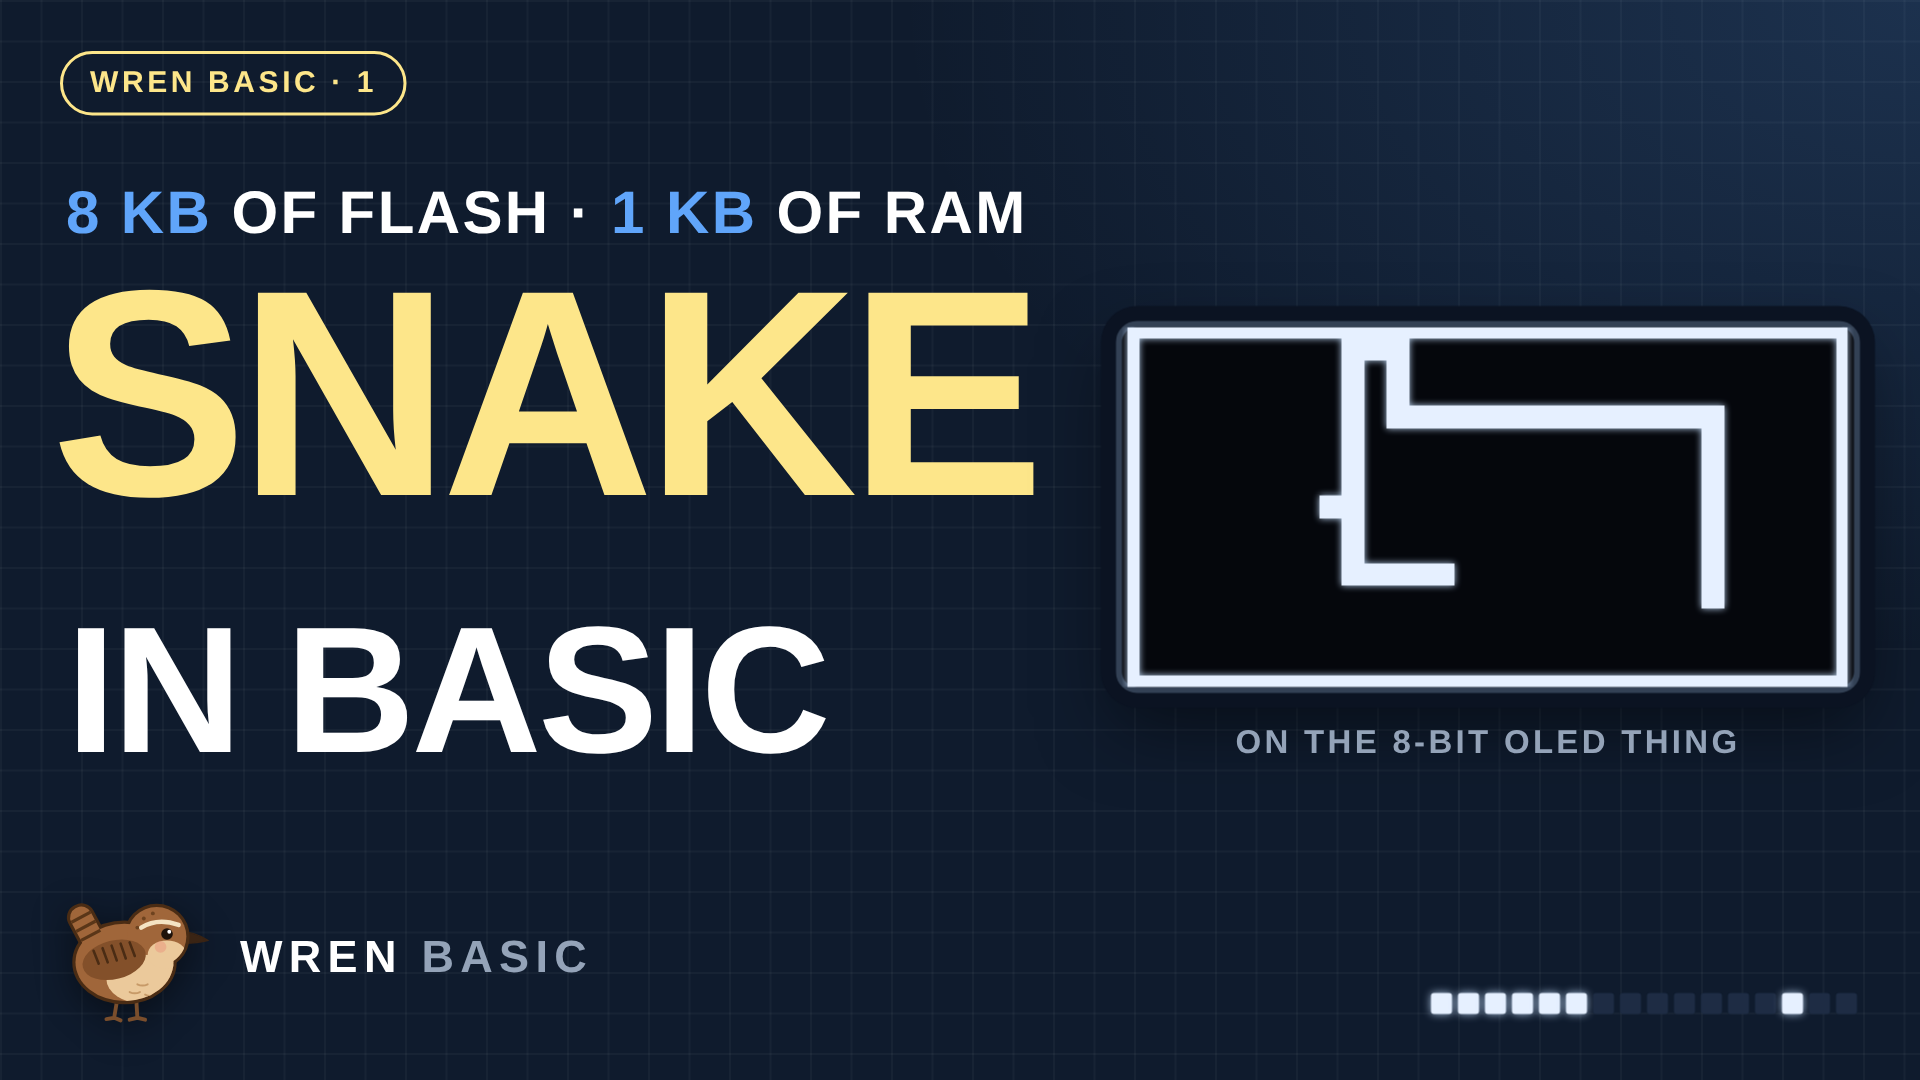
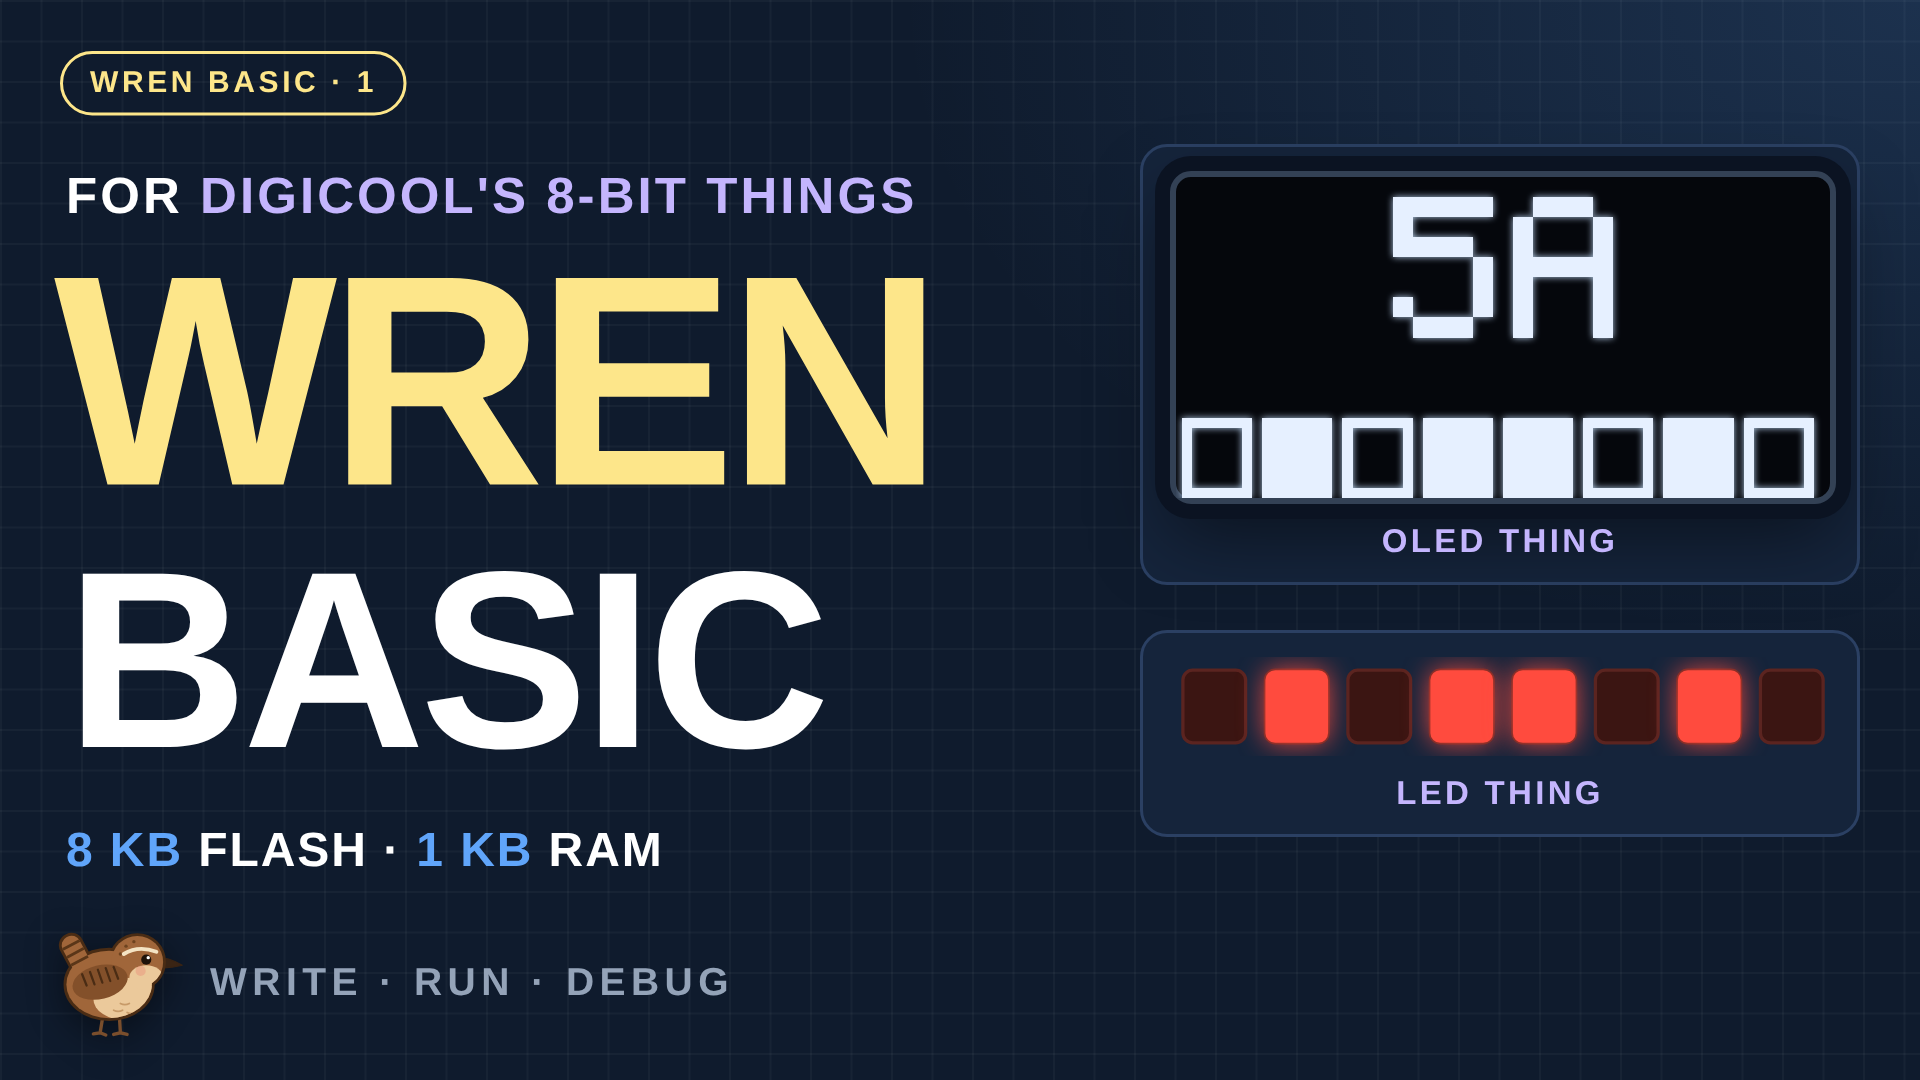
Videos: the overview's thumbnail is about Wren BASIC and the two Things
Claude-Session: https://claude.ai/code/session_01PM169opcHumrd8MpGp9RPP

diff --git a/docs/Videos/Infographics/Wren_01/Wren_01_00_Thumbnail.html b/docs/Videos/Infographics/Wren_01/Wren_01_00_Thumbnail.html
@@ -14,10 +14,11 @@
     5. The result is 1920 x 1080. Save it over Wren_01_00_Thumbnail.png.
 
   Sources:
-    - The OLED screen: the emulator's panel, Snake.bas from programs/OledThing as it is,
-      run on Wren's kernel in Wren.Emu until the snake was 42 cells long, one SVG rect per run
-      of lit pixels.
+    - The OLED screen: the emulator's panel, programs/OledThing/OledThing.bas with the inputs at
+      $5A and the mode pins high, one SVG rect per run of lit pixels.
+    - The LEDs: the emulator, programs/LedThing/LedThing.bas in mode 7 with the inputs at $5A.
     - "8 KB of flash, 1 KB of RAM": the Things' chip, docs/OledThing.md (Parts).
+    - The boards are drawn, not photographed: no Digicool artwork is used.
     - The mark: art/wren.svg, the wren.
 
   Fonts: "Liberation Sans" and "DejaVu Sans Mono" (Arial and Consolas are close).
@@ -120,28 +121,29 @@
   .thumb { position: absolute; left: 0; top: 0; width: 1280px; height: 720px; overflow: hidden; transform-origin: top left; }
   @media (min-width: 1900px) { .thumb { transform: scale(1.5); } body { background-size: auto, 40px 40px, 40px 40px; } }
   .thumb .chip { left: 40px; top: 34px; font-size: 20px; padding: 8px 18px; }
-  .over { position: absolute; left: 44px; top: 120px; font-size: 40px; font-weight: 700; color: #ffffff; letter-spacing: 0.04em; }
-  .over b { color: var(--basic); }
-  .head { position: absolute; left: 34px; top: 170px; font-size: 196px; line-height: 0.95; font-weight: 700; color: var(--gold); letter-spacing: -0.03em; }
-  .head2 { position: absolute; left: 44px; top: 400px; font-size: 120px; line-height: 1; font-weight: 700; color: #ffffff; letter-spacing: -0.02em; }
-  .screen { position: absolute; left: 744px; top: 214px; width: 496px; height: 248px; padding: 0; }
-  .screen-cap { position: absolute; left: 744px; top: 482px; width: 496px; text-align: center; font-size: 22px; color: var(--muted); letter-spacing: 0.1em; font-weight: 700; }
-  .brand { position: absolute; left: 34px; bottom: 26px; display: flex; align-items: center; gap: 16px; font-size: 30px; font-weight: 700; letter-spacing: 0.14em; color: var(--muted); }
-  .brand .bird { width: 110px; height: 110px; }
-  .brand b { color: #ffffff; }
-  .pixels { position: absolute; right: 42px; bottom: 44px; display: grid; grid-template-columns: repeat(16, 14px); gap: 4px; }
-  .pixels i { width: 14px; height: 14px; background: #1e2c44; border-radius: 2px; }
-  .pixels i.on { background: var(--pixel); box-shadow: 0 0 6px rgba(200, 225, 255, 0.8); }
+  .over { position: absolute; left: 44px; top: 112px; font-size: 34px; font-weight: 700; color: #ffffff; letter-spacing: 0.06em; }
+  .over b { color: var(--thing); }
+  .head { position: absolute; left: 36px; top: 160px; font-size: 200px; line-height: 0.95; font-weight: 700; color: var(--gold); letter-spacing: -0.03em; }
+  .head2 { position: absolute; left: 44px; top: 356px; font-size: 168px; line-height: 1; font-weight: 700; color: #ffffff; letter-spacing: -0.02em; }
+  .board { position: absolute; left: 760px; width: 480px; background: var(--panel); border: 2px solid var(--line); border-radius: 18px; padding: 16px 18px 14px; }
+  .board .cap { font-size: 22px; font-weight: 700; letter-spacing: 0.1em; color: var(--thing); margin-top: 12px; text-align: center; }
+  .b1 { top: 96px; } .b1 .oled { width: 444px; height: 222px; }
+  .b2 { top: 420px; } .b2 .leds { display: block; width: 444px; height: 66px; }
+  .ram { position: absolute; left: 44px; top: 548px; font-size: 32px; font-weight: 700; color: #fff; letter-spacing: 0.04em; }
+  .ram b { color: var(--basic); }
+  .brand { position: absolute; left: 30px; bottom: 18px; display: flex; align-items: center; gap: 14px; font-size: 26px; font-weight: 700; letter-spacing: 0.14em; color: var(--muted); }
+  .brand .bird { width: 96px; height: 96px; }
 </style>
 </head>
 <body>
 <div class="thumb">
   <div class="chip fade">WREN BASIC · 1</div>
-  <div class="over rise d1"><b>8 KB</b> OF FLASH · <b>1 KB</b> OF RAM</div>
-  <div class="head rise d2">SNAKE</div>
-  <div class="head2 rise d3">IN BASIC</div>
-  <div class="oled screen pop d4"><!--OLED:snake_len42--><svg class="px" viewBox="0 0 64 32" shape-rendering="crispEdges"><g><rect x="0" y="0" width="64" height="1"/><rect x="0" y="1" width="1" height="1"/><rect x="19" y="1" width="6" height="1"/><rect x="63" y="1" width="1" height="1"/><rect x="0" y="2" width="1" height="1"/><rect x="19" y="2" width="6" height="1"/><rect x="63" y="2" width="1" height="1"/><rect x="0" y="3" width="1" height="1"/><rect x="19" y="3" width="2" height="1"/><rect x="23" y="3" width="2" height="1"/><rect x="63" y="3" width="1" height="1"/><rect x="0" y="4" width="1" height="1"/><rect x="19" y="4" width="2" height="1"/><rect x="23" y="4" width="2" height="1"/><rect x="63" y="4" width="1" height="1"/><rect x="0" y="5" width="1" height="1"/><rect x="19" y="5" width="2" height="1"/><rect x="23" y="5" width="2" height="1"/><rect x="63" y="5" width="1" height="1"/><rect x="0" y="6" width="1" height="1"/><rect x="19" y="6" width="2" height="1"/><rect x="23" y="6" width="2" height="1"/><rect x="63" y="6" width="1" height="1"/><rect x="0" y="7" width="1" height="1"/><rect x="19" y="7" width="2" height="1"/><rect x="23" y="7" width="30" height="1"/><rect x="63" y="7" width="1" height="1"/><rect x="0" y="8" width="1" height="1"/><rect x="19" y="8" width="2" height="1"/><rect x="23" y="8" width="30" height="1"/><rect x="63" y="8" width="1" height="1"/><rect x="0" y="9" width="1" height="1"/><rect x="19" y="9" width="2" height="1"/><rect x="51" y="9" width="2" height="1"/><rect x="63" y="9" width="1" height="1"/><rect x="0" y="10" width="1" height="1"/><rect x="19" y="10" width="2" height="1"/><rect x="51" y="10" width="2" height="1"/><rect x="63" y="10" width="1" height="1"/><rect x="0" y="11" width="1" height="1"/><rect x="19" y="11" width="2" height="1"/><rect x="51" y="11" width="2" height="1"/><rect x="63" y="11" width="1" height="1"/><rect x="0" y="12" width="1" height="1"/><rect x="19" y="12" width="2" height="1"/><rect x="51" y="12" width="2" height="1"/><rect x="63" y="12" width="1" height="1"/><rect x="0" y="13" width="1" height="1"/><rect x="19" y="13" width="2" height="1"/><rect x="51" y="13" width="2" height="1"/><rect x="63" y="13" width="1" height="1"/><rect x="0" y="14" width="1" height="1"/><rect x="19" y="14" width="2" height="1"/><rect x="51" y="14" width="2" height="1"/><rect x="63" y="14" width="1" height="1"/><rect x="0" y="15" width="1" height="1"/><rect x="17" y="15" width="4" height="1"/><rect x="51" y="15" width="2" height="1"/><rect x="63" y="15" width="1" height="1"/><rect x="0" y="16" width="1" height="1"/><rect x="17" y="16" width="4" height="1"/><rect x="51" y="16" width="2" height="1"/><rect x="63" y="16" width="1" height="1"/><rect x="0" y="17" width="1" height="1"/><rect x="19" y="17" width="2" height="1"/><rect x="51" y="17" width="2" height="1"/><rect x="63" y="17" width="1" height="1"/><rect x="0" y="18" width="1" height="1"/><rect x="19" y="18" width="2" height="1"/><rect x="51" y="18" width="2" height="1"/><rect x="63" y="18" width="1" height="1"/><rect x="0" y="19" width="1" height="1"/><rect x="19" y="19" width="2" height="1"/><rect x="51" y="19" width="2" height="1"/><rect x="63" y="19" width="1" height="1"/><rect x="0" y="20" width="1" height="1"/><rect x="19" y="20" width="2" height="1"/><rect x="51" y="20" width="2" height="1"/><rect x="63" y="20" width="1" height="1"/><rect x="0" y="21" width="1" height="1"/><rect x="19" y="21" width="10" height="1"/><rect x="51" y="21" width="2" height="1"/><rect x="63" y="21" width="1" height="1"/><rect x="0" y="22" width="1" height="1"/><rect x="19" y="22" width="10" height="1"/><rect x="51" y="22" width="2" height="1"/><rect x="63" y="22" width="1" height="1"/><rect x="0" y="23" width="1" height="1"/><rect x="51" y="23" width="2" height="1"/><rect x="63" y="23" width="1" height="1"/><rect x="0" y="24" width="1" height="1"/><rect x="51" y="24" width="2" height="1"/><rect x="63" y="24" width="1" height="1"/><rect x="0" y="25" width="1" height="1"/><rect x="63" y="25" width="1" height="1"/><rect x="0" y="26" width="1" height="1"/><rect x="63" y="26" width="1" height="1"/><rect x="0" y="27" width="1" height="1"/><rect x="63" y="27" width="1" height="1"/><rect x="0" y="28" width="1" height="1"/><rect x="63" y="28" width="1" height="1"/><rect x="0" y="29" width="1" height="1"/><rect x="63" y="29" width="1" height="1"/><rect x="0" y="30" width="1" height="1"/><rect x="63" y="30" width="1" height="1"/><rect x="0" y="31" width="64" height="1"/></g><g></g></svg><!--/OLED--></div>
-  <div class="screen-cap fade d5">ON THE 8-BIT OLED THING</div>
+  <div class="over rise d1">FOR <b>DIGICOOL'S 8-BIT THINGS</b></div>
+  <div class="head rise d2">WREN</div>
+  <div class="head2 rise d3">BASIC</div>
+  <div class="ram rise d4"><b>8 KB</b> FLASH · <b>1 KB</b> RAM</div>
+  <div class="board b1 pop d4"><div class="oled"><!--OLED:oled_default--><svg class="px" viewBox="0 0 64 32" shape-rendering="crispEdges"><g><rect x="21" y="2" width="10" height="1"/><rect x="35" y="2" width="6" height="1"/><rect x="21" y="3" width="10" height="1"/><rect x="35" y="3" width="6" height="1"/><rect x="21" y="4" width="2" height="1"/><rect x="33" y="4" width="2" height="1"/><rect x="41" y="4" width="2" height="1"/><rect x="21" y="5" width="2" height="1"/><rect x="33" y="5" width="2" height="1"/><rect x="41" y="5" width="2" height="1"/><rect x="21" y="6" width="8" height="1"/><rect x="33" y="6" width="2" height="1"/><rect x="41" y="6" width="2" height="1"/><rect x="21" y="7" width="8" height="1"/><rect x="33" y="7" width="2" height="1"/><rect x="41" y="7" width="2" height="1"/><rect x="29" y="8" width="2" height="1"/><rect x="33" y="8" width="10" height="1"/><rect x="29" y="9" width="2" height="1"/><rect x="33" y="9" width="10" height="1"/><rect x="29" y="10" width="2" height="1"/><rect x="33" y="10" width="2" height="1"/><rect x="41" y="10" width="2" height="1"/><rect x="29" y="11" width="2" height="1"/><rect x="33" y="11" width="2" height="1"/><rect x="41" y="11" width="2" height="1"/><rect x="21" y="12" width="2" height="1"/><rect x="29" y="12" width="2" height="1"/><rect x="33" y="12" width="2" height="1"/><rect x="41" y="12" width="2" height="1"/><rect x="21" y="13" width="2" height="1"/><rect x="29" y="13" width="2" height="1"/><rect x="33" y="13" width="2" height="1"/><rect x="41" y="13" width="2" height="1"/><rect x="23" y="14" width="6" height="1"/><rect x="33" y="14" width="2" height="1"/><rect x="41" y="14" width="2" height="1"/><rect x="23" y="15" width="6" height="1"/><rect x="33" y="15" width="2" height="1"/><rect x="41" y="15" width="2" height="1"/><rect x="0" y="24" width="7" height="1"/><rect x="8" y="24" width="7" height="1"/><rect x="16" y="24" width="7" height="1"/><rect x="24" y="24" width="7" height="1"/><rect x="32" y="24" width="7" height="1"/><rect x="40" y="24" width="7" height="1"/><rect x="48" y="24" width="7" height="1"/><rect x="56" y="24" width="7" height="1"/><rect x="0" y="25" width="1" height="1"/><rect x="6" y="25" width="1" height="1"/><rect x="8" y="25" width="7" height="1"/><rect x="16" y="25" width="1" height="1"/><rect x="22" y="25" width="1" height="1"/><rect x="24" y="25" width="7" height="1"/><rect x="32" y="25" width="7" height="1"/><rect x="40" y="25" width="1" height="1"/><rect x="46" y="25" width="1" height="1"/><rect x="48" y="25" width="7" height="1"/><rect x="56" y="25" width="1" height="1"/><rect x="62" y="25" width="1" height="1"/><rect x="0" y="26" width="1" height="1"/><rect x="6" y="26" width="1" height="1"/><rect x="8" y="26" width="7" height="1"/><rect x="16" y="26" width="1" height="1"/><rect x="22" y="26" width="1" height="1"/><rect x="24" y="26" width="7" height="1"/><rect x="32" y="26" width="7" height="1"/><rect x="40" y="26" width="1" height="1"/><rect x="46" y="26" width="1" height="1"/><rect x="48" y="26" width="7" height="1"/><rect x="56" y="26" width="1" height="1"/><rect x="62" y="26" width="1" height="1"/><rect x="0" y="27" width="1" height="1"/><rect x="6" y="27" width="1" height="1"/><rect x="8" y="27" width="7" height="1"/><rect x="16" y="27" width="1" height="1"/><rect x="22" y="27" width="1" height="1"/><rect x="24" y="27" width="7" height="1"/><rect x="32" y="27" width="7" height="1"/><rect x="40" y="27" width="1" height="1"/><rect x="46" y="27" width="1" height="1"/><rect x="48" y="27" width="7" height="1"/><rect x="56" y="27" width="1" height="1"/><rect x="62" y="27" width="1" height="1"/><rect x="0" y="28" width="1" height="1"/><rect x="6" y="28" width="1" height="1"/><rect x="8" y="28" width="7" height="1"/><rect x="16" y="28" width="1" height="1"/><rect x="22" y="28" width="1" height="1"/><rect x="24" y="28" width="7" height="1"/><rect x="32" y="28" width="7" height="1"/><rect x="40" y="28" width="1" height="1"/><rect x="46" y="28" width="1" height="1"/><rect x="48" y="28" width="7" height="1"/><rect x="56" y="28" width="1" height="1"/><rect x="62" y="28" width="1" height="1"/><rect x="0" y="29" width="1" height="1"/><rect x="6" y="29" width="1" height="1"/><rect x="8" y="29" width="7" height="1"/><rect x="16" y="29" width="1" height="1"/><rect x="22" y="29" width="1" height="1"/><rect x="24" y="29" width="7" height="1"/><rect x="32" y="29" width="7" height="1"/><rect x="40" y="29" width="1" height="1"/><rect x="46" y="29" width="1" height="1"/><rect x="48" y="29" width="7" height="1"/><rect x="56" y="29" width="1" height="1"/><rect x="62" y="29" width="1" height="1"/><rect x="0" y="30" width="1" height="1"/><rect x="6" y="30" width="1" height="1"/><rect x="8" y="30" width="7" height="1"/><rect x="16" y="30" width="1" height="1"/><rect x="22" y="30" width="1" height="1"/><rect x="24" y="30" width="7" height="1"/><rect x="32" y="30" width="7" height="1"/><rect x="40" y="30" width="1" height="1"/><rect x="46" y="30" width="1" height="1"/><rect x="48" y="30" width="7" height="1"/><rect x="56" y="30" width="1" height="1"/><rect x="62" y="30" width="1" height="1"/><rect x="0" y="31" width="7" height="1"/><rect x="8" y="31" width="7" height="1"/><rect x="16" y="31" width="7" height="1"/><rect x="24" y="31" width="7" height="1"/><rect x="32" y="31" width="7" height="1"/><rect x="40" y="31" width="7" height="1"/><rect x="48" y="31" width="7" height="1"/><rect x="56" y="31" width="7" height="1"/></g><g></g></svg><!--/OLED--></div><div class="cap">OLED THING</div></div>
+  <div class="board b2 pop d5"><!--LEDS:ledthing_mode7--><svg class="leds" viewBox="0 0 400 60"><rect x="6" y="8" width="38" height="44" rx="6" class="led-off"/><rect x="6" y="8" width="38" height="44" rx="6" class="led-on" style="opacity:0"/><rect x="56" y="8" width="38" height="44" rx="6" class="led-off"/><rect x="56" y="8" width="38" height="44" rx="6" class="led-on" style="opacity:1.00"/><rect x="106" y="8" width="38" height="44" rx="6" class="led-off"/><rect x="106" y="8" width="38" height="44" rx="6" class="led-on" style="opacity:0"/><rect x="156" y="8" width="38" height="44" rx="6" class="led-off"/><rect x="156" y="8" width="38" height="44" rx="6" class="led-on" style="opacity:1.00"/><rect x="206" y="8" width="38" height="44" rx="6" class="led-off"/><rect x="206" y="8" width="38" height="44" rx="6" class="led-on" style="opacity:1.00"/><rect x="256" y="8" width="38" height="44" rx="6" class="led-off"/><rect x="256" y="8" width="38" height="44" rx="6" class="led-on" style="opacity:0"/><rect x="306" y="8" width="38" height="44" rx="6" class="led-off"/><rect x="306" y="8" width="38" height="44" rx="6" class="led-on" style="opacity:1.00"/><rect x="356" y="8" width="38" height="44" rx="6" class="led-off"/><rect x="356" y="8" width="38" height="44" rx="6" class="led-on" style="opacity:0"/></svg><!--/LEDS--><div class="cap">LED THING</div></div>
   <div class="brand fade d6"><!--WREN--><svg class="bird" viewBox="0 0 256 256" aria-label="Wren">
  <g transform="translate(-6 -16)">
   <defs>
@@ -199,10 +201,7 @@
   <circle cx="186" cy="106" r="9" fill="#1E120A" />
   <circle cx="189.5" cy="102.5" r="3" fill="#FFFFFF" />
  </g>
-</svg><!--/WREN--><span><b>WREN</b> BASIC</span></div>
-  <div class="pixels fade d7">
-    <i class="on"></i><i class="on"></i><i class="on"></i><i class="on"></i><i class="on"></i><i class="on"></i><i></i><i></i><i></i><i></i><i></i><i></i><i></i><i class="on"></i><i></i><i></i>
-  </div>
+</svg><!--/WREN--><span>WRITE · RUN · DEBUG</span></div>
 </div>
 <!--NAV--><a class="nav next" href="Wren_01_01_TwoThings.html" aria-label="Next slide"></a><!--/NAV-->
 </body>

diff --git a/docs/Videos/README.md b/docs/Videos/README.md
@@ -45,8 +45,7 @@ with a white second half, Liberation Sans and DejaVu Sans Mono), with these for 
   Green is left out: the Reggie-16 videos use it a lot.
 - **The channel's mark**: the colour wren from `art/wren.svg`, top right on a slide, beside
   "WREN BASIC" on a thumbnail.
-- **The recurring motif**: the OLED itself, black glass with lit pixels, and on a thumbnail
-  a row of OLED pixels at the bottom right.
+- **The recurring motif**: the OLED itself, black glass with lit pixels.
 - **The screens on the slides are the emulator's**, never drawn by hand: the program as it
   is in `programs/`, run on Wren's kernel in Wren.Emu, its 64 x 32 panel written as one SVG
   rect per run of lit pixels between `<!--OLED:name-->` and `<!--/OLED-->`. Each HTML's

diff --git a/docs/Videos/Wren_01_Overview.md b/docs/Videos/Wren_01_Overview.md
@@ -26,11 +26,11 @@ Wren (MIT licence, C#, Windows): https://github.com/sillycowvalley/Wren
 
 ---
 
-## SNAKE IN BASIC
+## WREN BASIC
 
-> This is Snake, playing itself on a screen the size of a fingernail, on a chip with one kilobyte of RAM.
+> This is Wren BASIC, for two little boards from Digicool Things, each with one kilobyte of RAM.
 
-> It's written in BASIC. And so is everything else you'll see today.
+> By the end, they'll be playing Snake and Pong, written in BASIC and debugged on the chip itself.
 
 ## Two little Things, one chip
 
